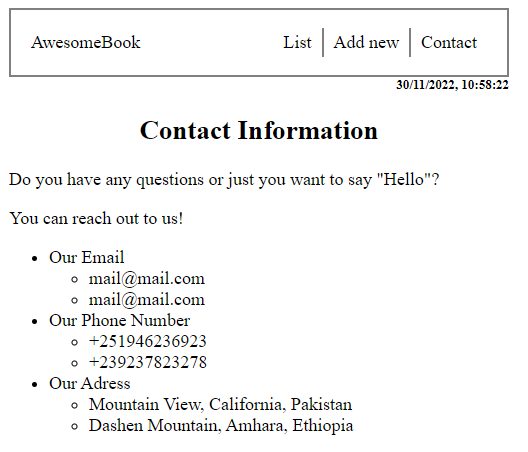
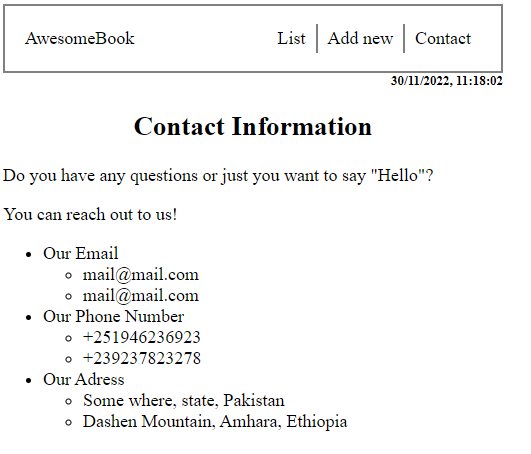
a complete website with navigation activity program optmized-Awesome books

diff --git a/index.html b/index.html
@@ -52,7 +52,7 @@
             </ul>
           <li>Our Adress</li>
             <ul>
-                <li>Mountain View, California, Pakistan</li>
+                <li>Some where, state, Pakistan</li>
                 <li>Dashen Mountain, Amhara, Ethiopia</li>
             </ul>
         </ul>
